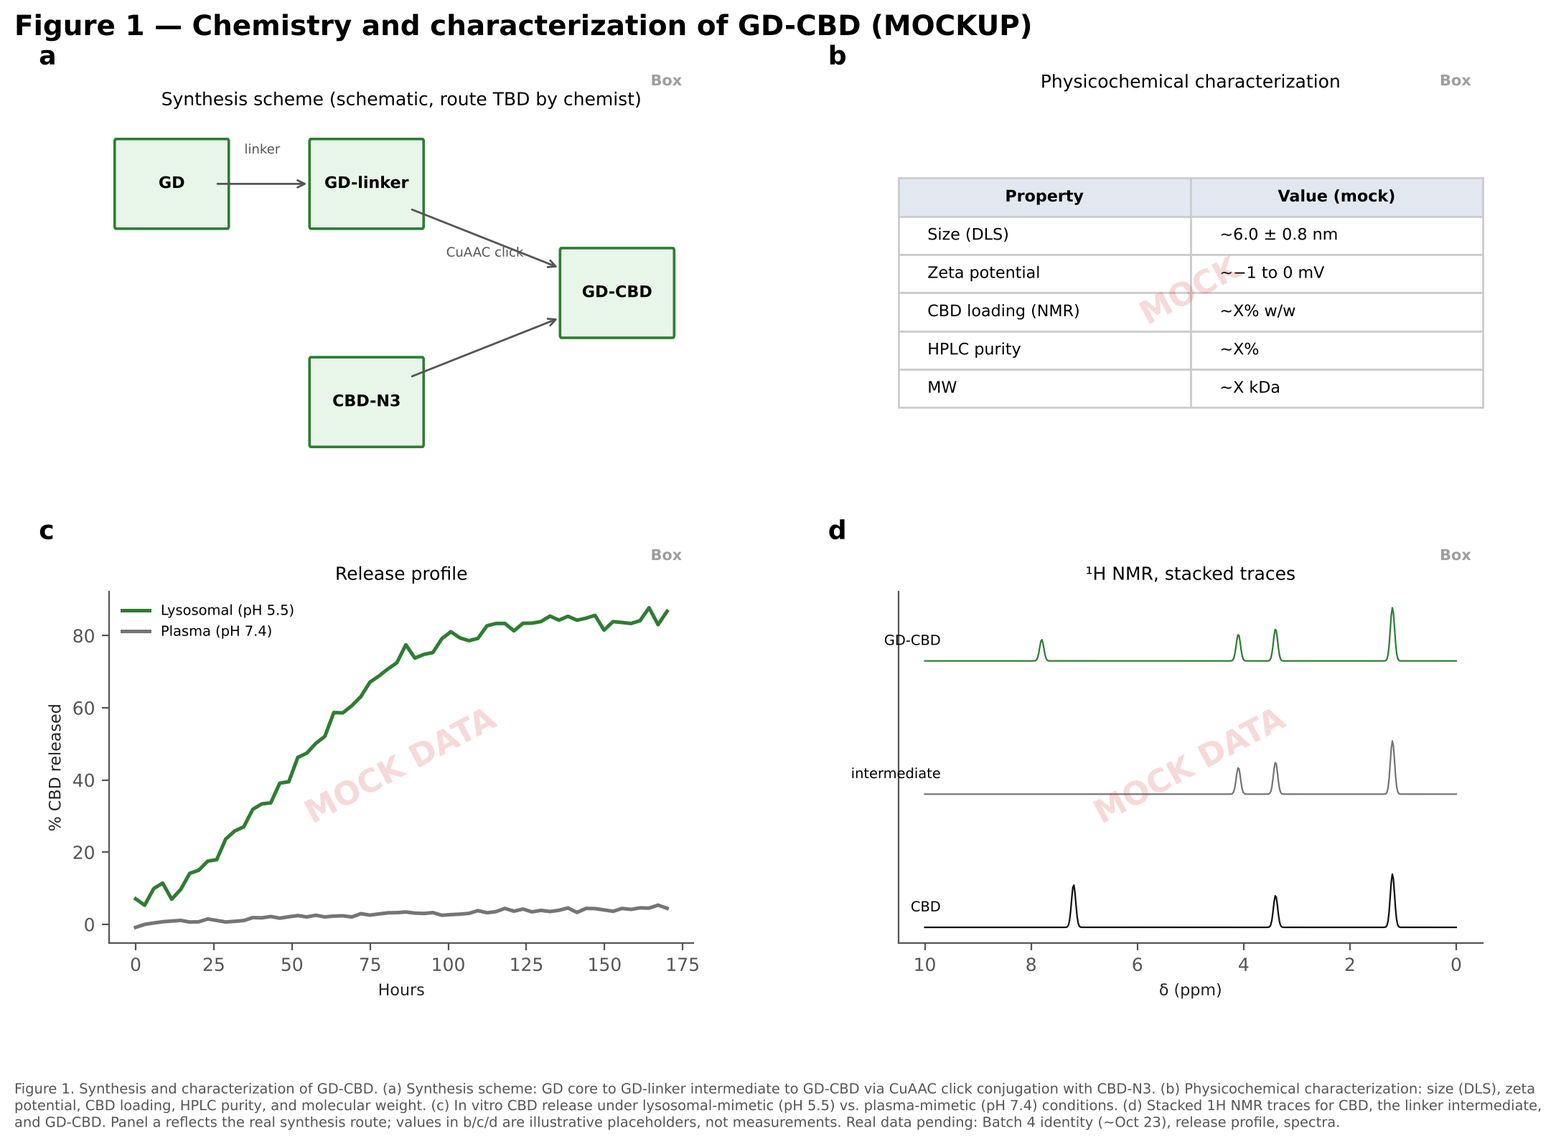
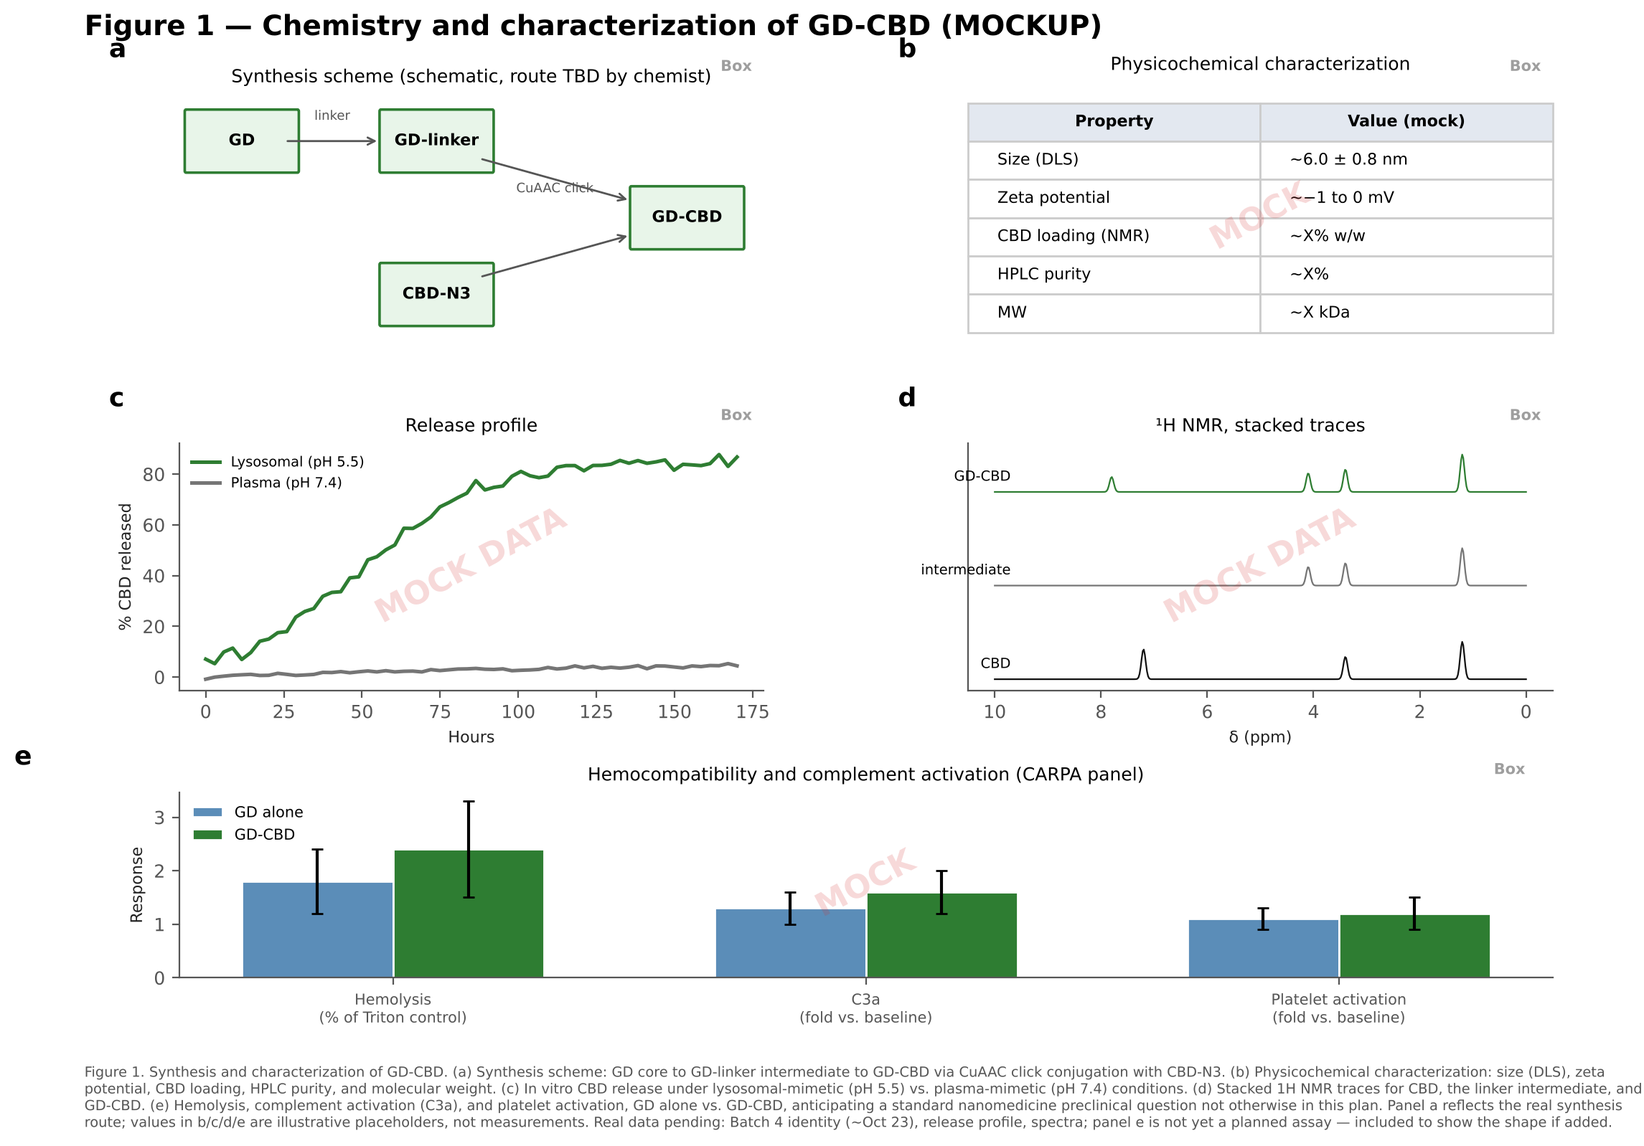
Add placeholder figure panels for the predicate-literature questions worth a panel
Three new mock panels, not just Limitations sentences, for the questions
that genuinely fit this cohort's existing samples/animals:

- Figure 1e: hemocompatibility/complement activation (hemolysis, C3a,
  platelet activation), GD alone vs. GD-CBD. Standard nanomedicine
  preclinical panel type (CARPA), not currently in the plan. 4-panel
  figure becomes 5, full-width bottom row.
- Figure 4g: hepatic transaminases (ALT/AST) from terminal serum. The
  single most-asked CBD safety question (2025 JAMA IM RCT: 8/151 healthy
  adults had ALT/AST >3xULN on consumer-range oral CBD). Conditional on
  whether terminal serum was actually banked from this cohort.
- Figure 4h: open-field locomotor activity. Rules out a motor-confound
  explanation for the von Frey result — standard control reviewers
  familiar with cannabinoid behavioral pharmacology ask for.

PK and CYP450/DDI stayed text-only in the Risks table (already added):
both would need a different study design (serial blood draws, microsome
assays), not a panel bolted onto this cohort, so a placeholder figure
would overclaim readiness.

FIGURE_PLAN, SLIDE_GUIDE, and CAPTIONS_DRAFT updated to match the new
panel counts and letters.

Claude-Session: https://claude.ai/code/session_01QzWRSRZ9CNkGodGiMwM5wp

diff --git a/figures/mockups/build_fig4_composite.py b/figures/mockups/build_fig4_composite.py
@@ -19,6 +19,7 @@ import matplotlib.pyplot as plt
 import matplotlib.patches as patches
 from matplotlib.lines import Line2D
 from matplotlib.gridspec import GridSpec
+from mock_helpers import watermark, status_tag
 
 plt.rcParams.update({
     "font.family": "DejaVu Sans",
@@ -90,9 +91,9 @@ def box_panel(ax, title, desc, status):
     ax.text(0.91, 0.14, status, fontsize=8, fontweight="bold", ha="right", color=status_color[status])
 
 
-fig = plt.figure(figsize=(13, 6.3))
+fig = plt.figure(figsize=(13, 9.0))
 fig.suptitle("Figure 4 — Flank-incision efficacy (MOCKUP, composite page)", fontsize=14, fontweight="bold", x=0.02, ha="left", y=0.99)
-gs = GridSpec(2, 12, figure=fig, hspace=0.4, wspace=0.9, top=0.87, bottom=0.22, left=0.05, right=0.97)
+gs = GridSpec(3, 12, figure=fig, hspace=0.45, wspace=0.9, top=0.86, bottom=0.15, left=0.05, right=0.97, height_ratios=[1, 1, 0.85])
 
 # Panel a: schematic
 ax_a = fig.add_subplot(gs[0, 0:4])
@@ -114,7 +115,7 @@ ax_b.set_xlabel("Hours", fontsize=8)
 ax_b.set_ylabel("% of baseline")
 ax_b.text(-0.07, 1.2, "b", transform=ax_b.transAxes, fontsize=13, fontweight="bold")
 handles = [Line2D([0], [0], color=COLOR[a], marker="o", markersize=4, label=a) for a in ARM_ORDER]
-fig.legend(handles=handles, loc="upper right", ncol=3, frameon=False, fontsize=8, bbox_to_anchor=(0.97, 0.955))
+fig.legend(handles=handles, loc="upper right", ncol=3, frameon=False, fontsize=8, bbox_to_anchor=(0.97, 0.935))
 
 # Panel c: AUC, pooled
 ax_c = fig.add_subplot(gs[1, 0:3])
@@ -151,17 +152,52 @@ ax_f = fig.add_subplot(gs[1, 9:12])
 box_panel(ax_f, "Wound histology", "H&E + injury-marker quantification\n[template: Porterfield Fig. 6c-d]", "Box")
 ax_f.text(-0.08, 1.18, "f", transform=ax_f.transAxes, fontsize=13, fontweight="bold")
 
+# Panels g, h: anticipate predicate-literature questions (CBD-field reviewers, not just
+# this lab's own precedent) - hepatotoxicity and a locomotor/sedation confound control.
+# Neither is a planned assay yet; included so the shape exists if the terminal serum
+# turns out to be banked (g) or an open-field check gets added as a cheap bump-up (h).
+ax_g = fig.add_subplot(gs[2, 0:6])
+groups = ["Vehicle", "CBD", "GD-CBD"]
+alt = [38, 42, 40]; alt_err = [6, 7, 6]
+ast = [95, 102, 98]; ast_err = [12, 14, 11]
+xpos = np.arange(3)
+w = 0.32
+ax_g.bar(xpos - w / 2, alt, width=w, yerr=alt_err, color="#9E9E9E", capsize=3, label="ALT (U/L)", edgecolor="white")
+ax_g.bar(xpos + w / 2, ast, width=w, yerr=ast_err, color="#5B8DB8", capsize=3, label="AST (U/L)", edgecolor="white")
+ax_g.axhline(55, color="#9E9E9E", linewidth=0.8, linestyle=":")
+ax_g.axhline(130, color="#5B8DB8", linewidth=0.8, linestyle=":")
+ax_g.set_xticks(xpos); ax_g.set_xticklabels(groups, fontsize=8)
+ax_g.set_ylabel("U/L", fontsize=8)
+ax_g.legend(fontsize=7.5, frameon=False)
+watermark(ax_g, "MOCK")
+ax_g.set_title("Hepatic transaminases, terminal serum (dotted = normal range ceiling)", fontsize=8.5)
+ax_g.text(-0.08, 1.18, "g", transform=ax_g.transAxes, fontsize=13, fontweight="bold")
+status_tag(ax_g, "Box")
+
+ax_h = fig.add_subplot(gs[2, 6:12])
+dist = [48, 44, 41]; dist_err = [9, 8, 7]
+ax_h.bar(xpos, dist, width=0.5, yerr=dist_err, color=[COLOR["Vehicle"], COLOR["CBD"], COLOR["GD-CBD"]], capsize=3, edgecolor="white")
+ax_h.set_xticks(xpos); ax_h.set_xticklabels(groups, fontsize=8)
+ax_h.set_ylabel("Open-field distance (m, 10 min)", fontsize=8)
+watermark(ax_h, "MOCK")
+ax_h.set_title("Locomotor/sedation control — rules out motor confound in von Frey", fontsize=8.5)
+ax_h.text(-0.06, 1.18, "h", transform=ax_h.transAxes, fontsize=13, fontweight="bold")
+status_tag(ax_h, "Box")
+
 fig.text(0.02, 0.01,
          "Figure 4. GD-CBD efficacy in flank-incision mechanical allodynia. (a) Study design and dosing timeline. (b) Time course of 50% mechanical withdrawal "
          "threshold (von Frey), individual animals, vehicle vs. free CBD vs. GD-CBD, pooled across the discovery cohort; an independent replication cohort pools "
          "in without cohort distinction once dosed. (c) Area under the threshold-vs-time curve (time-weighted mean, % of baseline), individual animals, same "
          "pooling. (d) Responder analysis: fraction of animals recovering to >=50% of baseline threshold by arm. (e) Ropivacaine positive-control validation of "
-         "the mechanical-threshold assay. (f) Wound histology, H&E/IHC with injury-marker quantification. "
+         "the mechanical-threshold assay. (f) Wound histology, H&E/IHC with injury-marker quantification. (g) Hepatic transaminases (ALT/AST) from terminal "
+         "serum, anticipating the most common CBD-field safety question. (h) Open-field locomotor activity, ruling out a motor-confound explanation for the "
+         "von Frey result. "
          "Panels b/c use real V12+V13 data, pooled (n=4 vehicle, 3 CBD, 6 GD-CBD; simplified time-weighted-mean calculation, not the locked rank-based primary "
-         "analysis). Panels a/d/e/f are placeholders. V12 and V13 are the same preparation and are not distinguished anywhere in this figure - that detail lives "
-         "in Methods and Table S1.",
+         "analysis). Panels a/d/e/f are placeholders. Panels g/h are not yet planned assays - included to show the shape if terminal serum is banked (g) or an "
+         "open-field check is added (h). V12 and V13 are the same preparation and are not distinguished anywhere in this figure - that detail lives in Methods "
+         "and Table S1.",
          fontsize=7, color="#555555", wrap=True)
 
 plt.savefig("/home/user/gd-cbd/figures/mockups/fig4_composite.png", dpi=200, bbox_inches="tight")
 plt.close()
-print("Saved fig4_composite.png (6 panels: a-f)")
+print("Saved fig4_composite.png (8 panels: a-h)")

diff --git a/figures/mockups/build_fig1_mock.py b/figures/mockups/build_fig1_mock.py
@@ -6,7 +6,7 @@ from mock_helpers import watermark, status_tag, panel_letter, RNG
 
 fig = plt.figure(figsize=(11, 8))
 fig.suptitle("Figure 1 — Chemistry and characterization of GD-CBD (MOCKUP)", fontsize=14, fontweight="bold", x=0.02, ha="left", y=0.98)
-gs = GridSpec(2, 2, figure=fig, hspace=0.35, wspace=0.35, top=0.89, bottom=0.17, left=0.08, right=0.95)
+gs = GridSpec(3, 2, figure=fig, hspace=0.45, wspace=0.35, top=0.91, bottom=0.14, left=0.08, right=0.95, height_ratios=[1, 1, 0.75])
 
 # 1a: synthesis scheme - schematic diagram, not mock data (no numbers to fake)
 ax_a = fig.add_subplot(gs[0, 0])
@@ -75,12 +75,35 @@ ax_d.set_title("¹H NMR, stacked traces", fontsize=9)
 panel_letter(ax_d, "d")
 status_tag(ax_d, "Box")
 
+# 1e: hemocompatibility / complement activation - mock, anticipates a predicate-literature
+# question (CARPA/hemocompatibility is a standard nanomedicine preclinical expectation,
+# not currently in the plan). Full-width row since it doesn't pair naturally with b/c/d.
+ax_e = fig.add_subplot(gs[2, :])
+assays = ["Hemolysis\n(% of Triton control)", "C3a\n(fold vs. baseline)", "Platelet activation\n(fold vs. baseline)"]
+gd_alone = [1.8, 1.3, 1.1]
+gd_cbd = [2.4, 1.6, 1.2]
+gd_alone_err = [0.6, 0.3, 0.2]
+gd_cbd_err = [0.9, 0.4, 0.3]
+xpos = np.arange(3)
+w = 0.32
+ax_e.bar(xpos - w / 2, gd_alone, width=w, yerr=gd_alone_err, color="#5B8DB8", capsize=3, label="GD alone", edgecolor="white")
+ax_e.bar(xpos + w / 2, gd_cbd, width=w, yerr=gd_cbd_err, color="#2E7D32", capsize=3, label="GD-CBD", edgecolor="white")
+ax_e.set_xticks(xpos); ax_e.set_xticklabels(assays, fontsize=7.5)
+ax_e.set_ylabel("Response", fontsize=8)
+ax_e.legend(fontsize=7.5, frameon=False, loc="upper left")
+watermark(ax_e, "MOCK")
+ax_e.set_title("Hemocompatibility and complement activation (CARPA panel)", fontsize=9)
+panel_letter(ax_e, "e")
+status_tag(ax_e, "Box")
+
 fig.text(0.02, 0.01,
          "Figure 1. Synthesis and characterization of GD-CBD. (a) Synthesis scheme: GD core to GD-linker intermediate to GD-CBD via CuAAC click conjugation with CBD-N3. "
          "(b) Physicochemical characterization: size (DLS), zeta potential, CBD loading, HPLC purity, and molecular weight. (c) In vitro CBD release under lysosomal-mimetic "
-         "(pH 5.5) vs. plasma-mimetic (pH 7.4) conditions. (d) Stacked 1H NMR traces for CBD, the linker intermediate, and GD-CBD. "
-         "Panel a reflects the real synthesis route; values in b/c/d are illustrative placeholders, not measurements. Real data pending: Batch 4 identity (~Oct 23), release profile, spectra.",
+         "(pH 5.5) vs. plasma-mimetic (pH 7.4) conditions. (d) Stacked 1H NMR traces for CBD, the linker intermediate, and GD-CBD. (e) Hemolysis, complement activation (C3a), "
+         "and platelet activation, GD alone vs. GD-CBD, anticipating a standard nanomedicine preclinical question not otherwise in this plan. "
+         "Panel a reflects the real synthesis route; values in b/c/d/e are illustrative placeholders, not measurements. Real data pending: Batch 4 identity (~Oct 23), release "
+         "profile, spectra; panel e is not yet a planned assay — included to show the shape if added.",
          fontsize=7, color="#555555", wrap=True)
 plt.savefig("/home/user/gd-cbd/figures/mockups/fig1_box_layout.png", dpi=200, bbox_inches="tight")
 plt.close()
-print("Saved fig1_box_layout.png")
+print("Saved fig1_box_layout.png (5 panels: a-e)")

diff --git a/figures/mockups/CAPTIONS_DRAFT_2026-10-14.md b/figures/mockups/CAPTIONS_DRAFT_2026-10-14.md
@@ -9,7 +9,7 @@ Caption style follows the comparator papers: one paragraph, lettered panel refer
 
 **STATUS: ALL PANELS MOCK.** No real values below. Panel a is the only panel with a real structure; it carries no numbers.
 
-> **Figure 1. Synthesis and characterization of GD-CBD.** (a) Synthesis scheme: GD core → GD-linker intermediate → GD-CBD via CuAAC click conjugation with CBD-N<sub>3</sub>. (b) Physicochemical characterization: hydrodynamic size (DLS), zeta potential, CBD loading (<sup>1</sup>H NMR), HPLC purity, and molecular weight [MOCK VALUES — table reads "~X%"/"~X kDa" as literal placeholders, not estimates]. (c) In vitro CBD release from GD-CBD under lysosomal-mimetic (pH 5.5, esterase) vs. plasma-mimetic (pH 7.4) conditions over 170 h [MOCK CURVES]. (d) Stacked <sup>1</sup>H NMR traces for CBD, the linker intermediate, and GD-CBD, illustrating the expected new peak on conjugation [MOCK SPECTRA, peak positions not real shifts].
+> **Figure 1. Synthesis and characterization of GD-CBD.** (a) Synthesis scheme: GD core → GD-linker intermediate → GD-CBD via CuAAC click conjugation with CBD-N<sub>3</sub>. (b) Physicochemical characterization: hydrodynamic size (DLS), zeta potential, CBD loading (<sup>1</sup>H NMR), HPLC purity, and molecular weight [MOCK VALUES — table reads "~X%"/"~X kDa" as literal placeholders, not estimates]. (c) In vitro CBD release from GD-CBD under lysosomal-mimetic (pH 5.5, esterase) vs. plasma-mimetic (pH 7.4) conditions over 170 h [MOCK CURVES]. (d) Stacked <sup>1</sup>H NMR traces for CBD, the linker intermediate, and GD-CBD, illustrating the expected new peak on conjugation [MOCK SPECTRA, peak positions not real shifts]. (e) Hemolysis, complement activation (C3a), and platelet activation, GD alone vs. GD-CBD [MOCK — not yet a planned assay; anticipates a standard nanomedicine preclinical/CARPA question].
 
 # Figure 2 — In vitro activity
 
@@ -27,7 +27,7 @@ Caption style follows the comparator papers: one paragraph, lettered panel refer
 
 **STATUS: Panel a is the real study design. Panels b–c use real pooled V12+V13 per-animal data (GD-CBD n=6, CBD n=3, vehicle n=4). Panels d–f are boxes, no data yet.** This caption is otherwise close to final; update n and stats once the new cohort pools in, and drop the "pending" language from the n line at that point.
 
-> **Figure 4. GD-CBD efficacy in flank-incision mechanical allodynia.** (a) Study design and dosing timeline. (b) Time course of 50% mechanical withdrawal threshold (von Frey), individual animals, vehicle vs. free CBD vs. GD-CBD, pooled across the discovery cohort (n = 4 vehicle, 3 CBD, 6 GD-CBD); an independent replication cohort is in progress and will pool in without cohort distinction once dosed. (c) Area under the threshold-vs-time curve (time-weighted mean, % of baseline), individual animals, same pooling. (d) Responder analysis: fraction of animals recovering to ≥50% of baseline threshold by arm [BOX — not built]. (e) Ropivacaine positive-control validation of the mechanical-threshold assay [some historical data exists (V21); new-cohort arm pending]. (f) Wound histology, H&E/IHC with injury-marker quantification [BOX — not built].
+> **Figure 4. GD-CBD efficacy in flank-incision mechanical allodynia.** (a) Study design and dosing timeline. (b) Time course of 50% mechanical withdrawal threshold (von Frey), individual animals, vehicle vs. free CBD vs. GD-CBD, pooled across the discovery cohort (n = 4 vehicle, 3 CBD, 6 GD-CBD); an independent replication cohort is in progress and will pool in without cohort distinction once dosed. (c) Area under the threshold-vs-time curve (time-weighted mean, % of baseline), individual animals, same pooling. (d) Responder analysis: fraction of animals recovering to ≥50% of baseline threshold by arm [BOX — not built]. (e) Ropivacaine positive-control validation of the mechanical-threshold assay [some historical data exists (V21); new-cohort arm pending]. (f) Wound histology, H&E/IHC with injury-marker quantification [BOX — not built]. (g) Hepatic transaminases (ALT/AST), terminal serum [MOCK — conditional on whether terminal serum is banked; anticipates the most common CBD-field safety question]. (h) Open-field locomotor activity [MOCK — not yet a planned assay; rules out a motor-confound explanation for panels b/c].
 
 # Figure 5 — Inflammatory markers across indications
 

diff --git a/GD-CBD_PUBLICATION_PLAN_2026-10-09.md b/GD-CBD_PUBLICATION_PLAN_2026-10-09.md
@@ -297,3 +297,4 @@ Checked 2026-10-15 against current CBD safety/PK literature, not just this lab's
 | 2026-10-14 | v5: added "Precedent" section citing four Kannan-lab papers (full text read), confirming this plan's n, lack of in vivo carrier-only control, and biodistribution claim level match the lab's own publication record. Flagged COI disclosure as the one real gap, and checked the R01's "OP-101 reduced mortality by 40%" claim against the trial's own Table 3 (confirmed accurate as absolute risk difference, not relative). | Prep for the Friday publication-plan presentation; papers in `literature/comparator_papers/`. |
 | 2026-10-14 | v6: user decided the manuscript will disclose only V12, V13, and the new cohort — other historical GD-CBD cohorts (attributed to chemistry/storage problems, not yet documented) are internal lab record only, not in Table S1, the forest plot, or named anywhere in the paper. Pooling section, Methods wording, Supplement list, and the "Batch history" risk row updated to match. Figure 4 mockups rebuilt to show only V12/V13 plus a pending slot for the new cohort. | User: "nope, not keeping them." Flagged once as in tension with the original brief's "do not misrepresent batch consistency or selectively pool incompatible data" instruction and with this plan's earlier full-disclosure Table S1 design; the user's call stands, logged here rather than silently dropped. |
 | 2026-10-15 | v7: added "Anticipated predicate-literature questions (CBD field)" section — hepatotoxicity (ALT/AST), serum PK, CYP450/DDI, dendrimer hemocompatibility/complement (CARPA), single-dose/no-dose-response, and locomotor/sedation confound, each checked against current CBD-field literature (a 2025 JAMA IM FDA-funded RCT on CBD liver enzyme elevations, CYP3A4/2C19 DDI literature, dendrimer CARPA testing literature). Five new rows added to the Risks table with limitation-statement language; two flagged as possible cheap bump-ups (hemolysis/CH50 assay, open-field/rotarod check) rather than new limitations, pending material and animal availability. | User: "we should be mindful of what types of data/figures they might request, and maybe pre-empt them a bit" — these are reviewer expectations from the broader CBD field, distinct from the lab's-own-precedent check in v5. |
+| 2026-10-15 | v7 follow-up: added two mock placeholder panels, not just limitation sentences — Figure 1e (hemocompatibility/CARPA: hemolysis, C3a, platelet activation) and Figure 4g/4h (hepatic transaminases from terminal serum; open-field locomotor control). PK and CYP450/DDI stayed text-only (Risks table) since either would need a new study design, not a panel added to this one. | User: "well I mean figures for the paper" — clarified that preempting predicate-literature questions meant figure panels, not just Limitations sentences, for the ones that actually fit this cohort's existing samples/animals. |

diff --git a/figures/SLIDE_GUIDE_2026-10-14.md b/figures/SLIDE_GUIDE_2026-10-14.md
@@ -7,10 +7,10 @@ Short mapping of slide -> content -> figure file. Pulls directly from `GD-CBD_PU
 | 1 | Title | Program name, date, target: submission by Dec 29 | — |
 | 2 | Strategy | Combined vs. pain-only decision table (plan, "Strategy" section) — lead with the decision criteria, not the backstory | — |
 | 3 | Where the data stand | Discovery cohort worked; later cohorts didn't reproduce it; batch-dependence is the open problem. Keep this at the level you've approved for disclosure — no cohort-by-cohort breakdown here either, same as the figures. | — |
-| 4 | Figure 1 — Chemistry | Walk the four boxed panels; say plainly what's due when (Batch 4 identity ~Oct 23) | `fig1_box_layout.png` |
+| 4 | Figure 1 — Chemistry | Walk the four boxed panels; say plainly what's due when (Batch 4 identity ~Oct 23). Panel e (hemocompatibility/CARPA) is a pre-emptive placeholder, not a planned assay yet — name it as "if we add this" | `fig1_box_layout.png` |
 | 5 | Figure 2 — In vitro | Note 2a is partial (prior TNF-α data exists); 2b is a real open question (may not exist) | `fig2_box_layout.png` |
 | 6 | Figure 3 — Epilepsy | Real data from the collaborator (8 panels, a-h, incl. dosing schematic) — GD-CBD reduces seizure duration/severity and improves 48h survival. Say plainly it's a draft panel set; more data is still coming from them | `fig3_box_layout.png` |
-| 7 | Figure 4 — Pain efficacy | **The main event.** Panels b/c are real data — walk the room through them before anything else. Say the primary endpoint and success criteria out loud; this is where "did it work" gets decided in November | `fig4_composite.png` |
+| 7 | Figure 4 — Pain efficacy | **The main event.** Panels b/c are real data — walk the room through them before anything else. Say the primary endpoint and success criteria out loud; this is where "did it work" gets decided in November. Panels g/h (ALT/AST, open-field) are pre-emptive placeholders for the two likeliest CBD-field safety questions — g only happens if terminal serum turns out to be banked | `fig4_composite.png` |
 | 8 | Figure 5 — Inflammatory markers | Full box both halves. 5a depends on the Nov satellite group; 5b entirely on the epilepsy collaborator | `fig5_box_layout.png` |
 | 9 | Figure 6 — Biodistribution | Panel a (study design) is real; panels b–d are mock, built assuming the Cy5-GD-CBD dosing study (QC ~Oct 30, material ~Nov 6) succeeds | `fig6_biodistribution.png` |
 | 10 | Precedent | The four Kannan-lab papers — this is your answer to "why is n this small" or "why no carrier control" before anyone asks | — (cite `literature/comparator_papers/`) |

diff --git a/figures/FIGURE_PLAN_2026-10-14.md b/figures/FIGURE_PLAN_2026-10-14.md
@@ -21,6 +21,7 @@ Modeled on: Porterfield & Sharma 2023 Fig. 1 + Scheme 1 (structure + physicochem
 | 1b | Physicochemical table (size, zeta, loading %, purity, MW) — Porterfield Fig. 1b format | **Box** — Batch 4 identity due ~Oct 23 |
 | 1c | Release profile — **template: Sharma 2024 Fig. 10c**, two curves (lysosomal/esterase pH 5.5 vs. plasma PBS pH 7.4) over ~170h, inset zoom on early timepoints | **Box** |
 | 1d | Representative NMR/HPLC/MALDI spectra — **template: Sharma 2024 Fig. 10a-b**, stacked traces (free CBD, intermediate, final conjugate), new peak confirming conjugation called out by arrow; single HPLC chromatograph with purity % annotated | **Box** |
+| 1e | Hemocompatibility/complement activation (hemolysis, C3a, platelet activation), GD alone vs. GD-CBD — anticipates a standard nanomedicine preclinical question (CARPA), not currently a planned assay | **Box**, not yet scheduled — added 2026-10-15 per "Anticipated predicate-literature questions" |
 
 # Figure 2 — In vitro activity
 
@@ -61,6 +62,8 @@ Modeled on: Porterfield Fig. 6 (timeline diagram + survival/outcome curve + hist
 | 4d | Responder analysis — **template: Sharma 2024 Fig. 11b**, compact bar chart of animal counts per outcome category (e.g., "recovered to ≥50% baseline" vs. "did not"), count fraction labeled on each bar | **Box** |
 | 4e | Ropivacaine validation | **Have** some historical (V21); **Box** for new cohort |
 | 4f | Wound histology — **template: Porterfield Fig. 6c-d**, H&E/IHC images + injury-marker quantification bar graph | **Box** |
+| 4g | Hepatic transaminases (ALT/AST), terminal serum — anticipates the most common CBD-field safety question | **Box**, conditional on whether terminal serum is banked — added 2026-10-15 |
+| 4h | Open-field locomotor activity — rules out a motor-confound explanation for the von Frey result | **Box**, not yet scheduled — added 2026-10-15 |
 
 # Figure 5 — Inflammatory markers across indications
 
